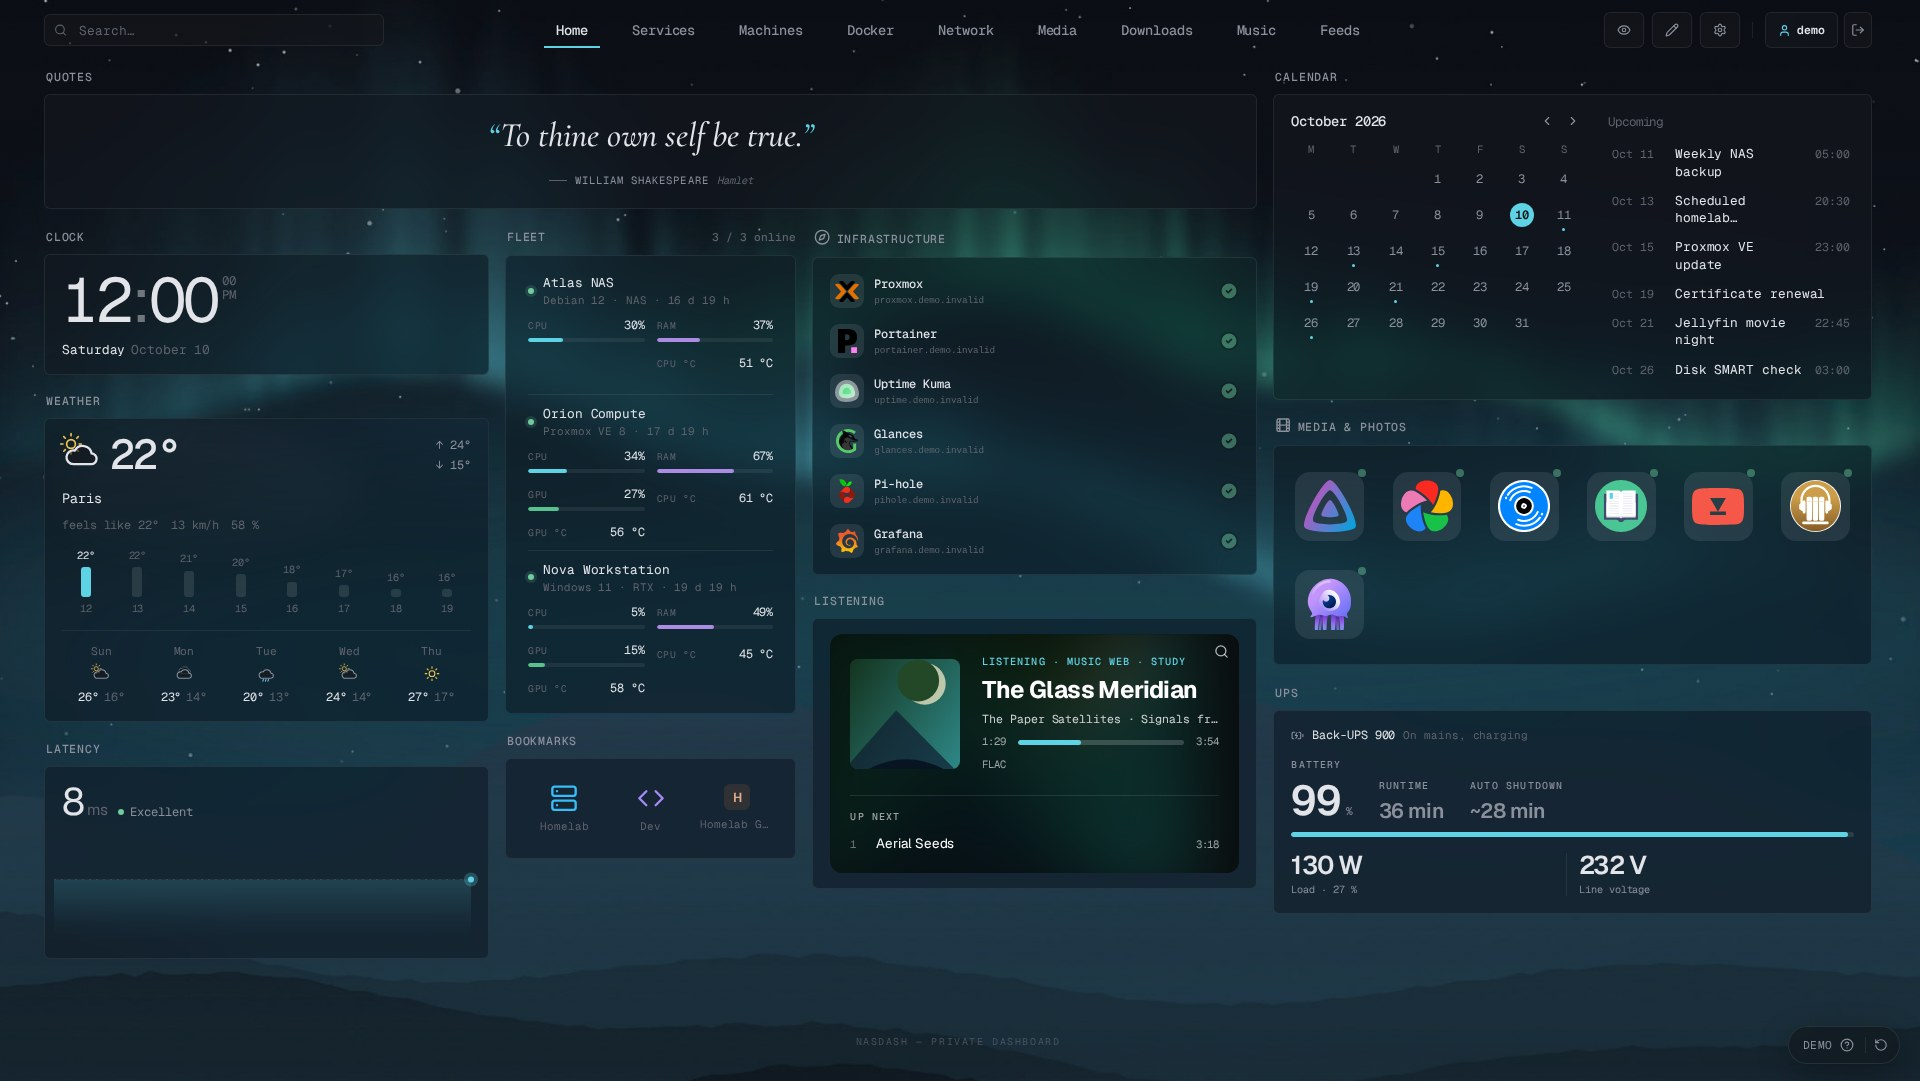
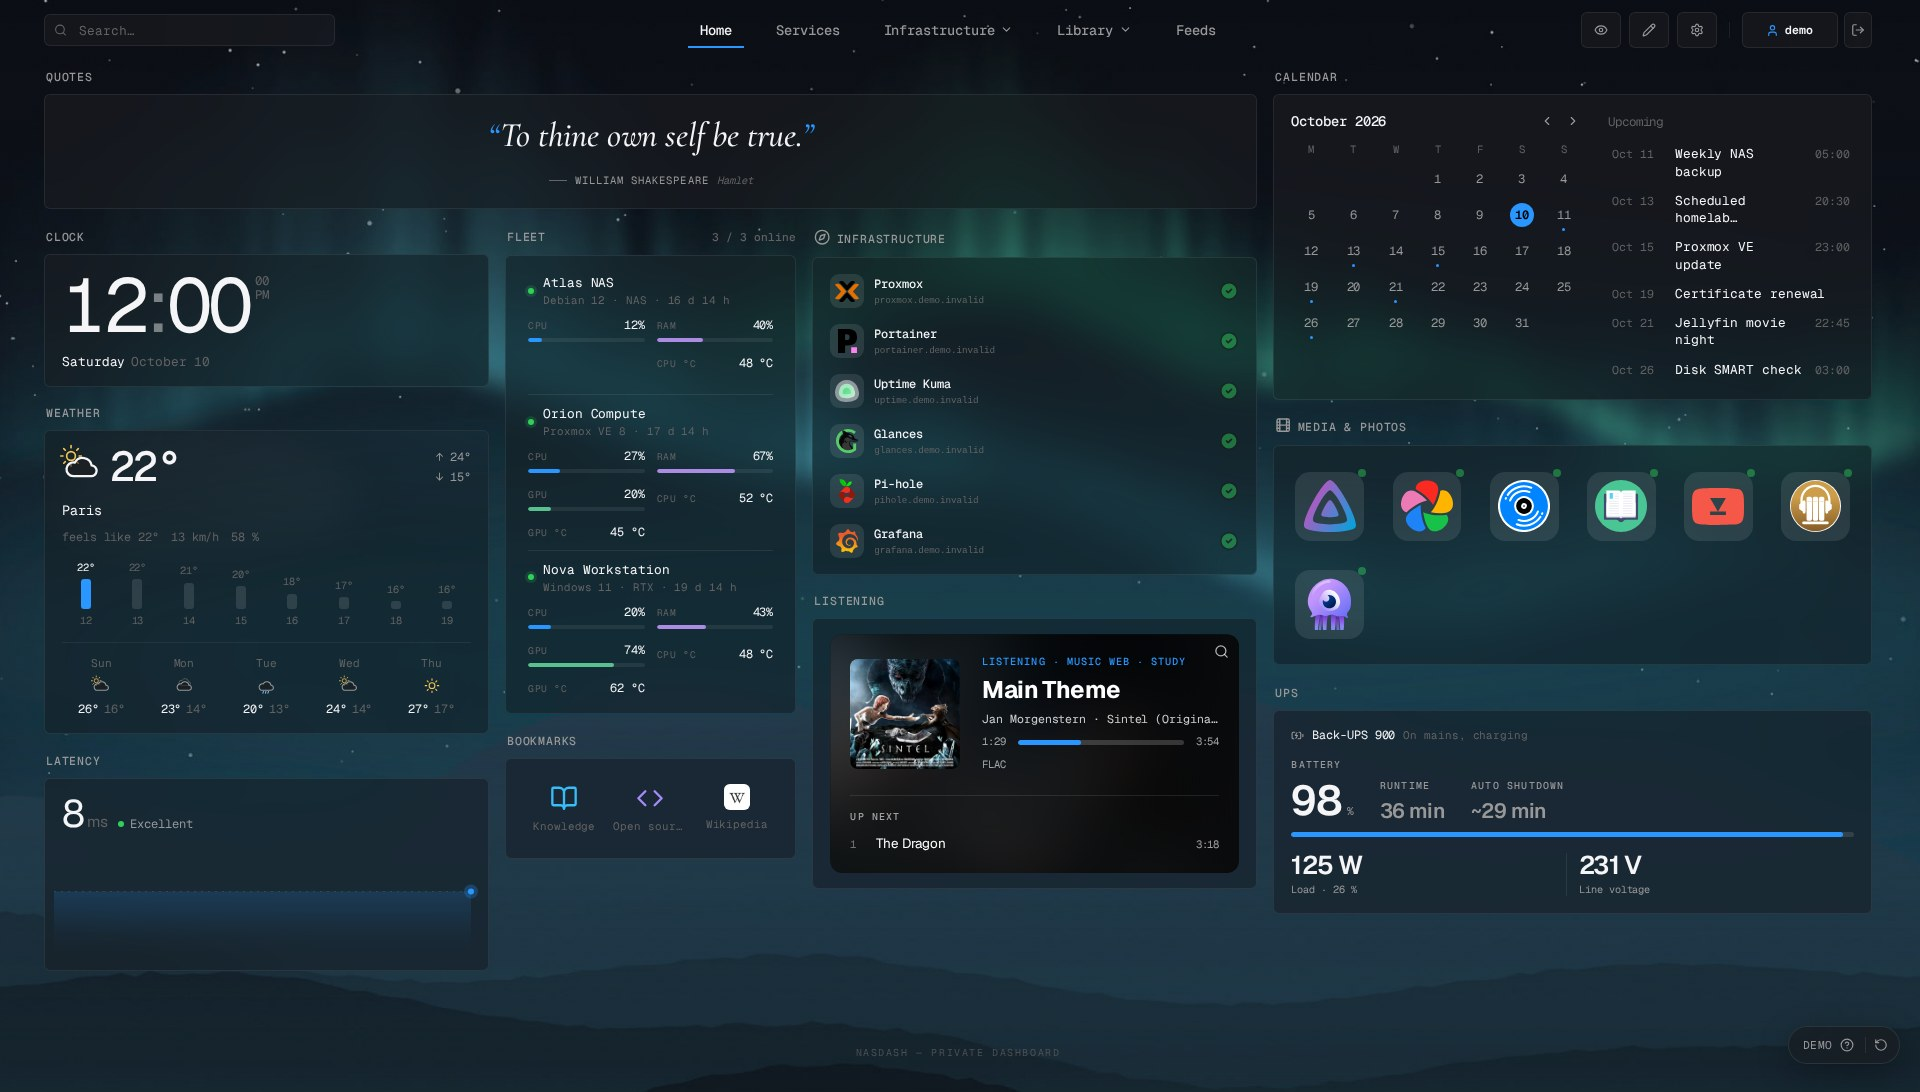
docs: screenshots of NasDash 0.4.0; README overview without release narrative
The 27 captures are regenerated from the demo with the header widgets,
the phone header and the real demo artwork. The fresh-install captures copy
the tracked data/*.example.json again, as a new installation starts.

diff --git a/README.md b/README.md
@@ -22,7 +22,7 @@
 
 NasDash brings services, machines, Docker, the network, media, downloads, music and photos into one calm, self-hosted dashboard. Each page is a free grid with 61 selectable widget types (64 registered), from service categories and machine telemetry to Jellyfin, the *arr apps, DNS blocking, VPN and UPS.
 
-In 0.4.0, Search, Page menu and Buttons are widgets placed on each page. Move and resize them in edit mode; the dashboard title is no longer displayed and Header settings have been removed. Page menus share four styles (tabs, capsule, segmented and icons), alignment, pages per line, an “Others” limit and sub-menus, with an optional override for one menu. Search looks through every widget on the page, and each widget can show or hide its own title.
+The page header is made of widgets too: Search, Page menu and Buttons sit on each page, moved and resized in edit mode like the others. Page menus share four styles (tabs, capsule, segmented and icons), alignment, pages per line, an “Others” limit and sub-menus, with an optional override for one menu. Search looks through every widget on the page, and each widget can show or hide its own title.
 
 Configuration stays on your own server in a persistent Docker volume or bind-mounted directory. A new installation starts private, asks for a setup code printed in the container log, and walks you through a short guide. Integrations are optional: the dashboard remains useful as a service cockpit while deeper infrastructure capabilities can be enabled deliberately.
 
